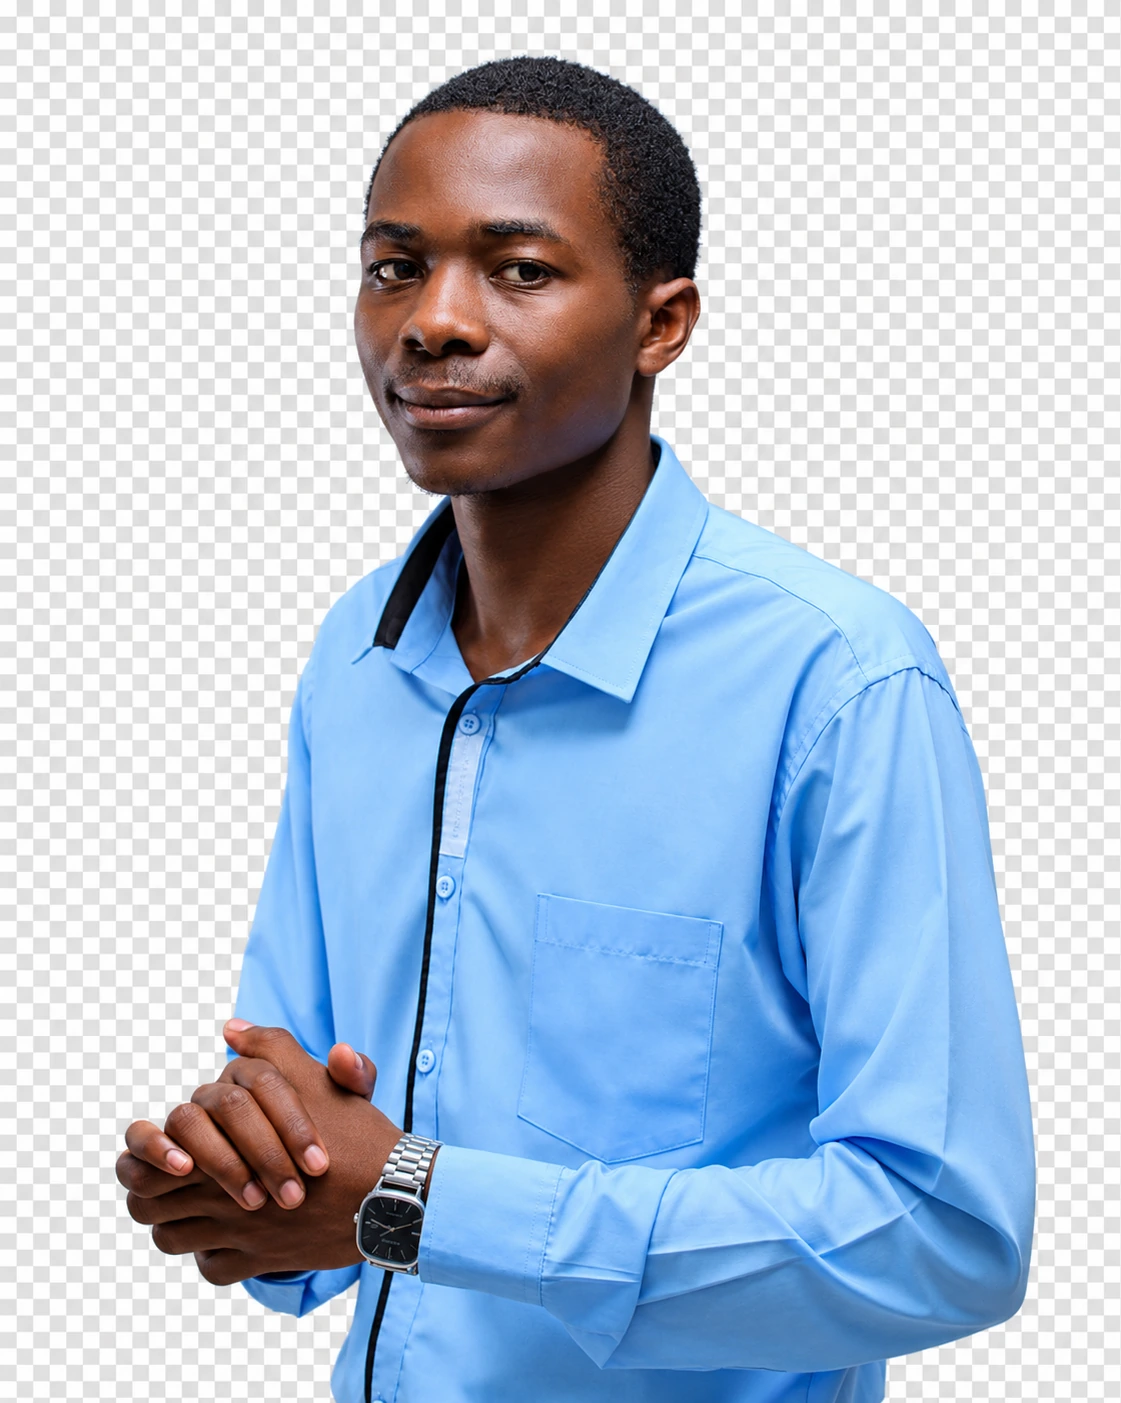
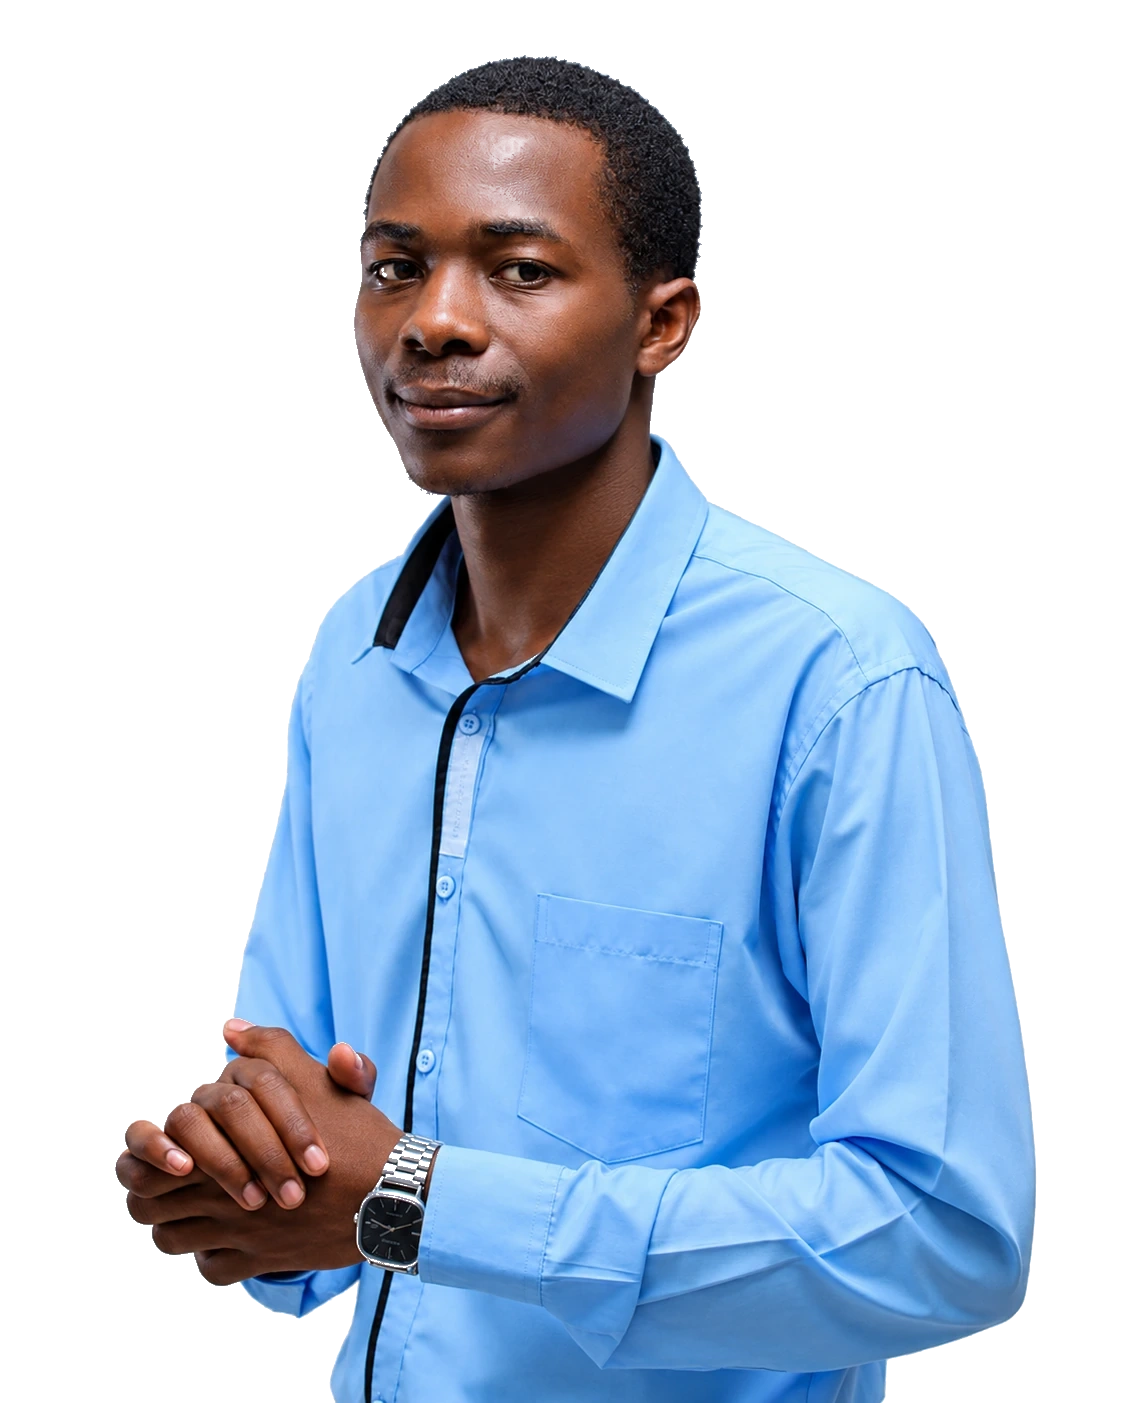
Blend portrait into cinematic hero layout

Changed region(s): [[0.0, 0.0, 0.9991, 1.0], [0.4371, 0.0919, 0.4683, 0.1226], [0.3434, 0.8275, 0.3747, 0.8582]]

diff --git a/src/styles/index.css b/src/styles/index.css
@@ -925,21 +925,21 @@ a:focus-visible, button:focus-visible, input:focus-visible, select:focus-visible
 .hero-stage {
   position: relative;
   display: grid;
-  grid-template-columns: minmax(185px, .76fr) minmax(330px, 1.3fr) minmax(205px, .8fr);
+  grid-template-columns: minmax(185px, .78fr) minmax(380px, 1.5fr) minmax(205px, .82fr);
   align-items: center;
-  gap: clamp(1rem, 2.5vw, 2.5rem);
+  gap: clamp(1rem, 2vw, 2rem);
   min-height: min(750px, calc(100svh - 7.7rem));
 }
 .hero-backdrop-title {
   position: absolute;
   z-index: 0;
-  top: 43%;
+  top: 42%;
   left: 0;
   width: 100%;
   max-width: none;
   overflow: visible;
   color: color-mix(in srgb, var(--text) 18%, transparent);
-  font-size: clamp(5rem, 12.2vw, 11.8rem);
+  font-size: clamp(5rem, 10.8vw, 10.8rem);
   line-height: .82;
   letter-spacing: -.095em;
   text-align: center;
@@ -963,9 +963,9 @@ a:focus-visible, button:focus-visible, input:focus-visible, select:focus-visible
 .hero-stat span { color: var(--muted); font-size: .68rem; line-height: 1.3; }
 .hero-visual { z-index: 1; min-height: min(760px, 78svh); height: min(760px, 78svh); overflow: visible; }
 .hero-scene { z-index: 0; inset: 0 -12%; width: 124%; height: 100%; }
-.hero-visual .hero-portrait { position: relative; z-index: 1; align-self: end; width: 100%; height: 100%; min-height: 0; margin: 0; padding: 0; overflow: visible; border: 0; background: transparent; box-shadow: none; transform: none; }
+.hero-visual .hero-portrait { position: relative; z-index: 1; align-self: end; width: 140%; height: 100%; min-height: 0; margin: 0 0 0 -20%; padding: 0; overflow: visible; border: 0; background: transparent; box-shadow: none; transform: none; }
 .portrait-frame { width: 100%; height: 100%; min-height: 0; aspect-ratio: auto; overflow: visible; border-radius: 0; background: transparent; -webkit-mask-image: none; mask-image: none; }
-.portrait-image { object-fit: contain; object-position: center bottom; filter: drop-shadow(0 24px 55px rgba(0, 0, 0, .22)); }
+.portrait-image { object-fit: contain; object-position: center bottom; filter: drop-shadow(0 26px 42px rgba(0, 0, 0, .2)); }
 .portrait-caption { bottom: 13%; left: 50%; right: auto; transform: translateX(-50%); white-space: nowrap; font-size: .59rem; letter-spacing: .21em; }
 .portrait-fallback { min-height: 100%; background: radial-gradient(circle, var(--accent-soft), transparent 70%); }
 
@@ -1044,7 +1044,7 @@ a:focus-visible, button:focus-visible, input:focus-visible, select:focus-visible
   .hero-context { grid-column: 1; grid-row: 2; align-self: start; }
   .hero-copy { grid-column: 1; grid-row: 1; }
   .hero-backdrop-title { top: 45%; font-size: clamp(5rem, 13vw, 9rem); }
-  .hero-visual .hero-portrait { width: 100%; }
+  .hero-visual .hero-portrait { width: 140%; margin-left: -20%; }
   .two-column { grid-template-columns: minmax(0, 1fr) minmax(260px, .8fr); }
 }
 
@@ -1053,7 +1053,7 @@ a:focus-visible, button:focus-visible, input:focus-visible, select:focus-visible
   .hero-stage { grid-template-columns: 1fr; min-height: auto; gap: .5rem; }
   .hero-backdrop-title { top: 2.5rem; left: -3%; width: 106%; font-size: clamp(3.1rem, 14vw, 5.2rem); line-height: .88; white-space: normal; }
   .hero-visual { grid-column: 1; grid-row: 1; width: min(100%, 430px); min-height: min(560px, 67svh); height: min(560px, 67svh); margin-inline: auto; }
-  .hero-visual .hero-portrait { width: 91%; }
+  .hero-visual .hero-portrait { width: 118%; margin-left: -9%; }
   .hero-copy { grid-column: 1; grid-row: 2; max-width: none; padding-top: .4rem; }
   .hero-context { grid-column: 1; grid-row: 3; max-width: none; padding-top: 1rem; }
   .hero-actions { display: flex; flex-wrap: wrap; align-items: center; }
